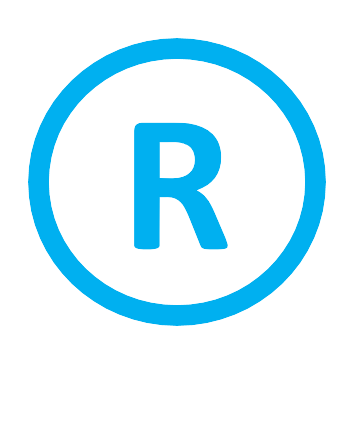
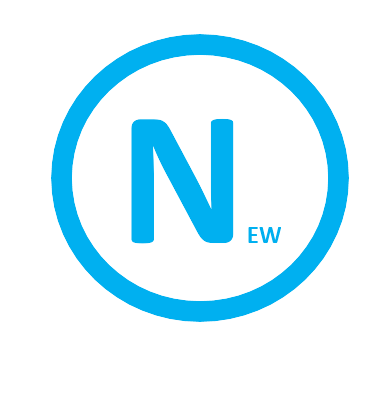
Updated

Changed region(s): [[0.0623, 0.0581, 0.966, 0.7845]]

diff --git a/WebApp/ArcGIS_API_for_JavaScript/civil/Civil_Utility_Relocation_Final_v3-1.html b/WebApp/ArcGIS_API_for_JavaScript/civil/Civil_Utility_Relocation_Final_v3-1.html
@@ -679,7 +679,7 @@ var utilReloSymbolRenderer = {
             {
               value: "NewlyAdded",
               symbol: getUniqueValueSymbol(
-                "https://EijiGorilla.github.io/Symbols/Relocatd.png",
+                "https://EijiGorilla.github.io/Symbols/NewlyAdded.png",
                 "#D13470",
                 30,
                 "Relocation"
